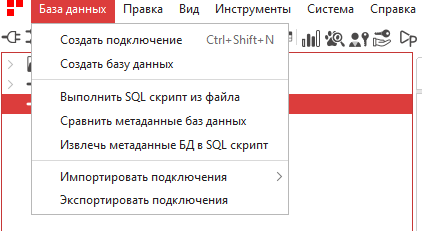
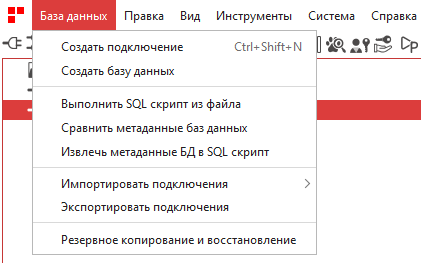
Add description of backup and restore tool (RS-201110)

diff --git a/guide_rst/source/conf.py b/guide_rst/source/conf.py
@@ -103,7 +103,7 @@ latex_elements = {
 
 \begin{flushright}
 \Huge {\xhrulefill{red}{2mm}\color{red} Ред} Эксперт\\
-\LARGE Версия 2024.08\\
+\LARGE Версия 2024.11\\
 \huge Руководство пользователя\\
 
 \end{flushright}

diff --git a/guide_rst/source/sec-database.rst b/guide_rst/source/sec-database.rst
@@ -31,8 +31,7 @@ SSH туннель
 
 Есть возможность подключиться к базе данных через ``SSH-туннель``. 
 Как и при любом ``SSH-соединении``, весь трафик между вами и БД будет шифроваться.
-Для этого введите параметры подключения на вкладке ``«Базовые»``, переключитесь на вкладку
-``«SSH Тоннель»`` и заполните параметры для ``SSH-соединения``. Имя хоста переносится с вкладки ``«Базовые»``.
+Для этого заполните параметры для ``SSH-соединения``. 
 
 .. figure:: img/ssh.png
 
@@ -115,3 +114,28 @@ SSH туннель
 .. figure:: img/export_connection.png
 
     Экспорт подключения
+
+Резервное копирование и восстановление
+----------------------------------------
+
+Для выполнения резервного копирования или восстановления выберите пункт меню База данных :math:`\to` Резервное копирование и восстановление.
+
+.. figure:: img/backup.png
+
+    Резервное копирование и восстановление
+
+Опции резервного копирования соответсвуют ключам ``gbak``:
+
+* Игнорировать контрольные суммы - ``gbak -ignore``;
+* Только метаданные - ``gbak -meta_data``;
+* Без сборки мусора - ``gbak -garbage_collect``;
+* Непереносимое резервное копирование - ``gbak -nt``.
+
+Опции восстановления из резервной копии тоже соответсвуют ключам ``gbak``:
+
+* Переписать файл базы данных - ``gbak -replace_database``;
+* Восстановление без теней - ``gbak -kill``;
+* Деактивировать индексы - ``gbak -inactive``;
+* Без проверки валидности - ``gbak -no_validity``;
+* Только метаданные - ``gbak -meta_data``;
+* Восстанавливать по одному - ``gbak -one_at_a_time``.

diff --git a/guide_rst/source/sec-overview.rst b/guide_rst/source/sec-overview.rst
@@ -46,18 +46,6 @@
 
 Двойной клик по объекту откроет вкладку с подробной информацией о нём.
 
-.. figure:: img/tree_object.png
-
-    Информация о таблице
-
-Кнопка ``Загрузить все`` загружает все данные таблицы. По умолчанию сразу загружается 30 записей. Это количество можно изменить в настройках.
-
-Кнопка ``Переключить отображение данных`` растягивает таблицу данных на всю ширину рабочей области:
-
-.. figure:: img/table_data.png
-
-    Переключение отображения данных
-
 Рабочее пространство
 ----------------------
 
@@ -67,3 +55,16 @@
 
     Рабочее пространство
 
+Просмотр подробной информации об объекте осуществляется в рабочем пространстве, например:
+
+.. figure:: img/tree_object.png
+
+    Информация о таблице
+
+По умолчанию сразу загружается 30 записей (это количество можно изменить в настройках), а кнопка ``Загрузить все`` загружает все данные таблицы.
+
+Кнопка ``Переключить отображение данных`` растягивает таблицу данных на всю ширину рабочей области:
+
+.. figure:: img/table_data.png
+
+    Переключение отображения данных
